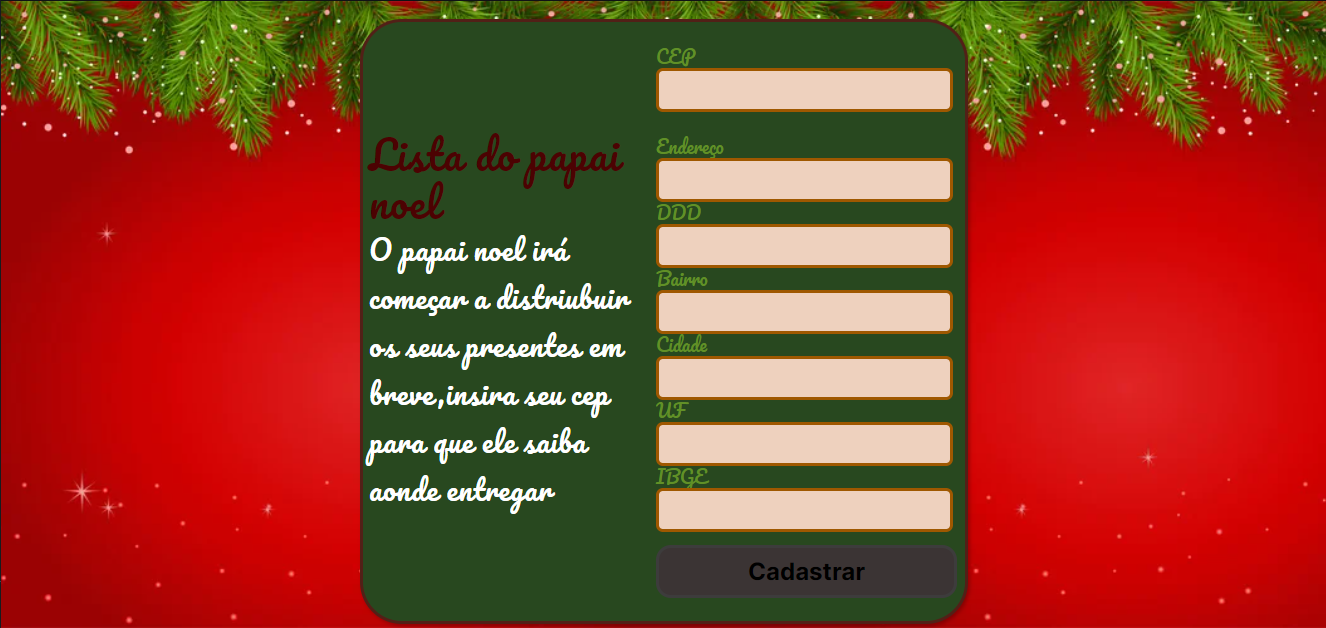
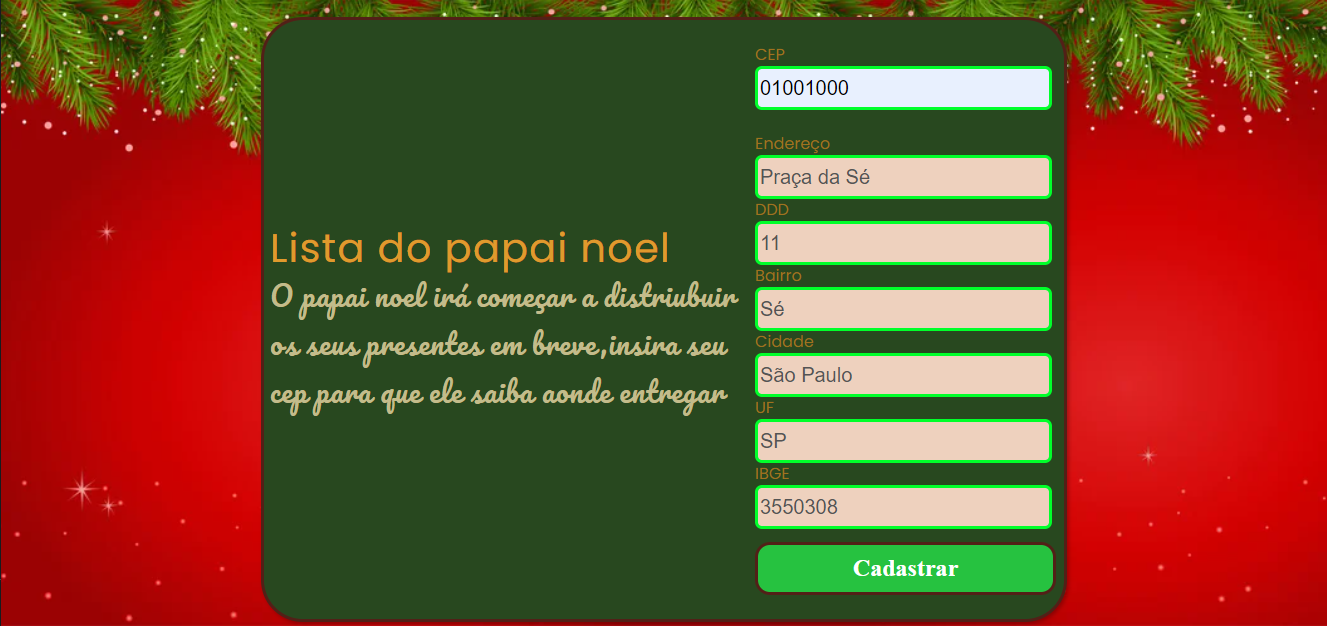
ajustando medidas e cores

diff --git a/style.css b/style.css
@@ -1,5 +1,4 @@
-@import url('https://fonts.googleapis.com/css2?family=Pacifico&family=Inter:wght@700&display=swap');
-
+@import url('https://fonts.googleapis.com/css2?family=Exo+2:ital,wght@1,100&family=Pacifico&family=Poppins&display=swap');
 header{
     padding-top: 26px;
 }
@@ -14,7 +13,7 @@ body{
     justify-content: center;
 }
 .login{
-    width: 602px;
+    width: 800px;
     height: 599px;
     background: #28481f;
     box-shadow: 2px 2px 4px rgb(0 0 0 / 25%);
@@ -39,7 +38,7 @@ input[type=number] {
 }
 .titulo{
     width: 206px;
-    font-family: 'Pacifico';
+    font-family: poppins;
     font-style: normal;
     font-weight: 500;
     font-size: 40px;
@@ -47,31 +46,31 @@ input[type=number] {
     text-align: center;
     letter-spacing: 0.03em;
     text-indent: 1px;
-    color: #4c0202;
+    color: rgb(224 154 45);
 
 }
 .texto{
-    FONT-VARIANT: JIS04;
+    font-variant: jis04;
     width: 206px;
-    font-family: 'Pacifico';
+    font-family: Pacifico;
     font-style: normal;
-    font-weight: 400;
+    font-weight: 200;
     font-size: 28px;
     line-height: 48px;
     text-align: center;
     letter-spacing: 0.03em;
     text-indent: 1px;
-    color: #ffffff;
+    color: rgb(195 188 139);
 }
 
 .container form{
     width: 317px;
-    font-family: 'Pacifico';
+    font-family: 'Poppins';
     font-style: normal;
     font-weight: 400;
-    font-size: 18px;
+    font-size: 16px;
     line-height: 22px;
-    color: #619027;
+    color: rgb(159 115 31);
 }
 
 /*botao caso estiver tudo certo no cadastro*/
